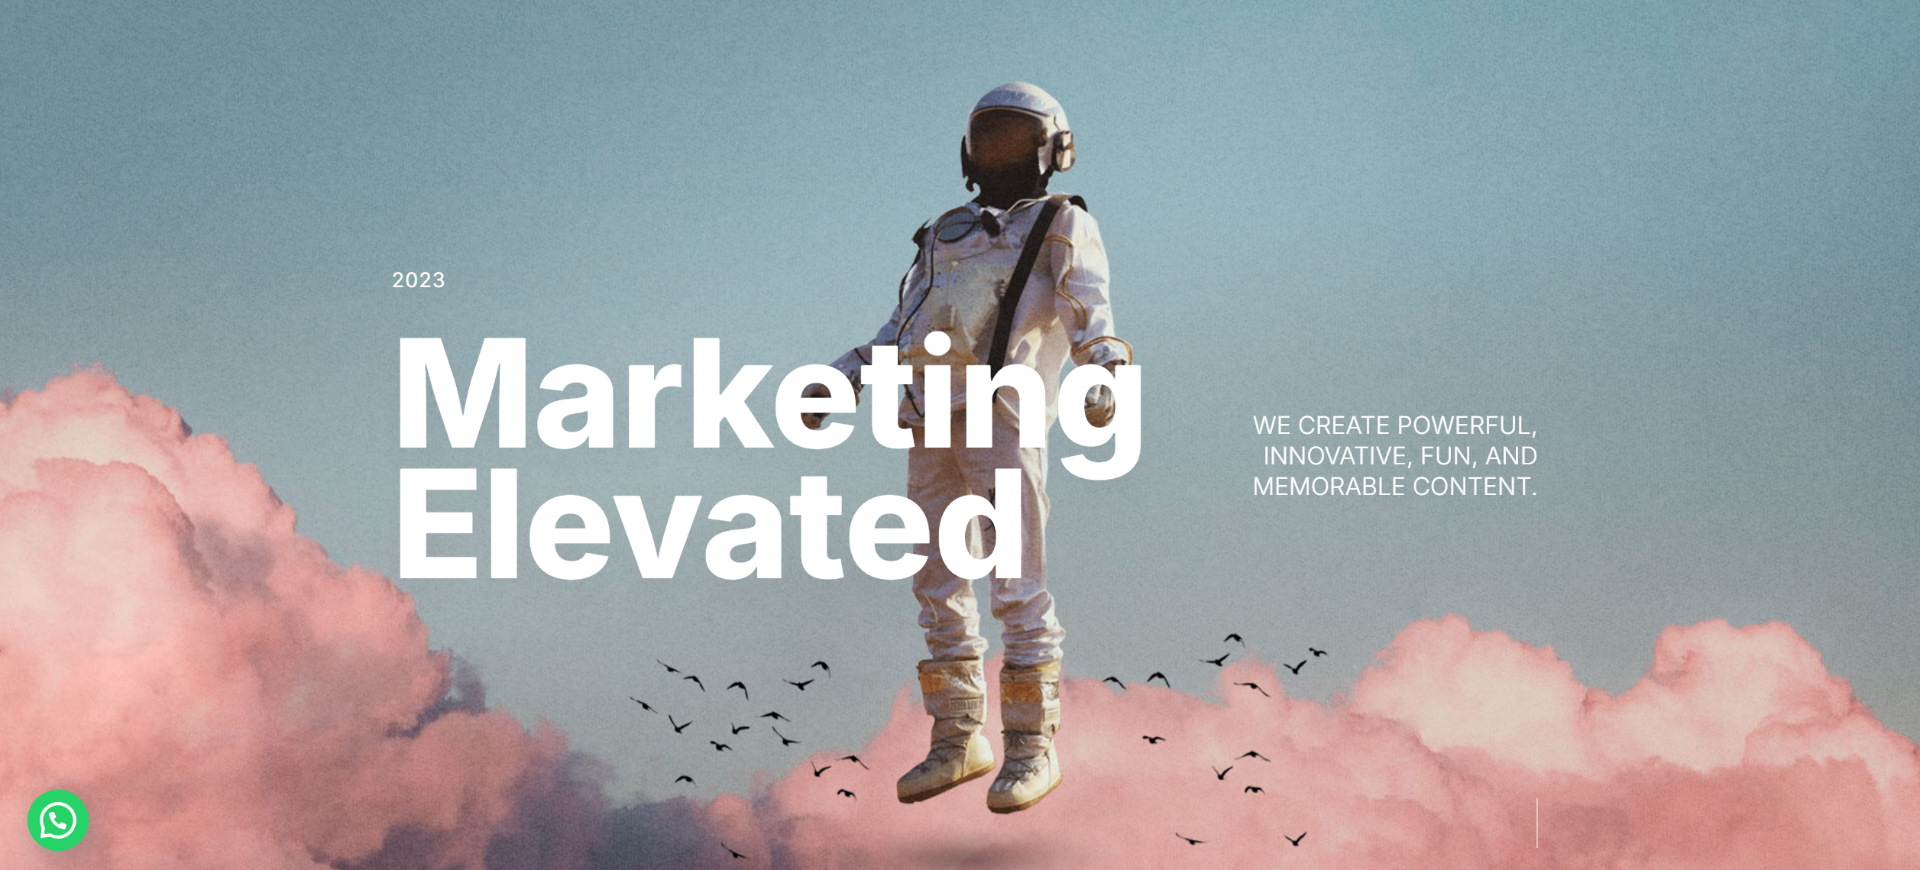
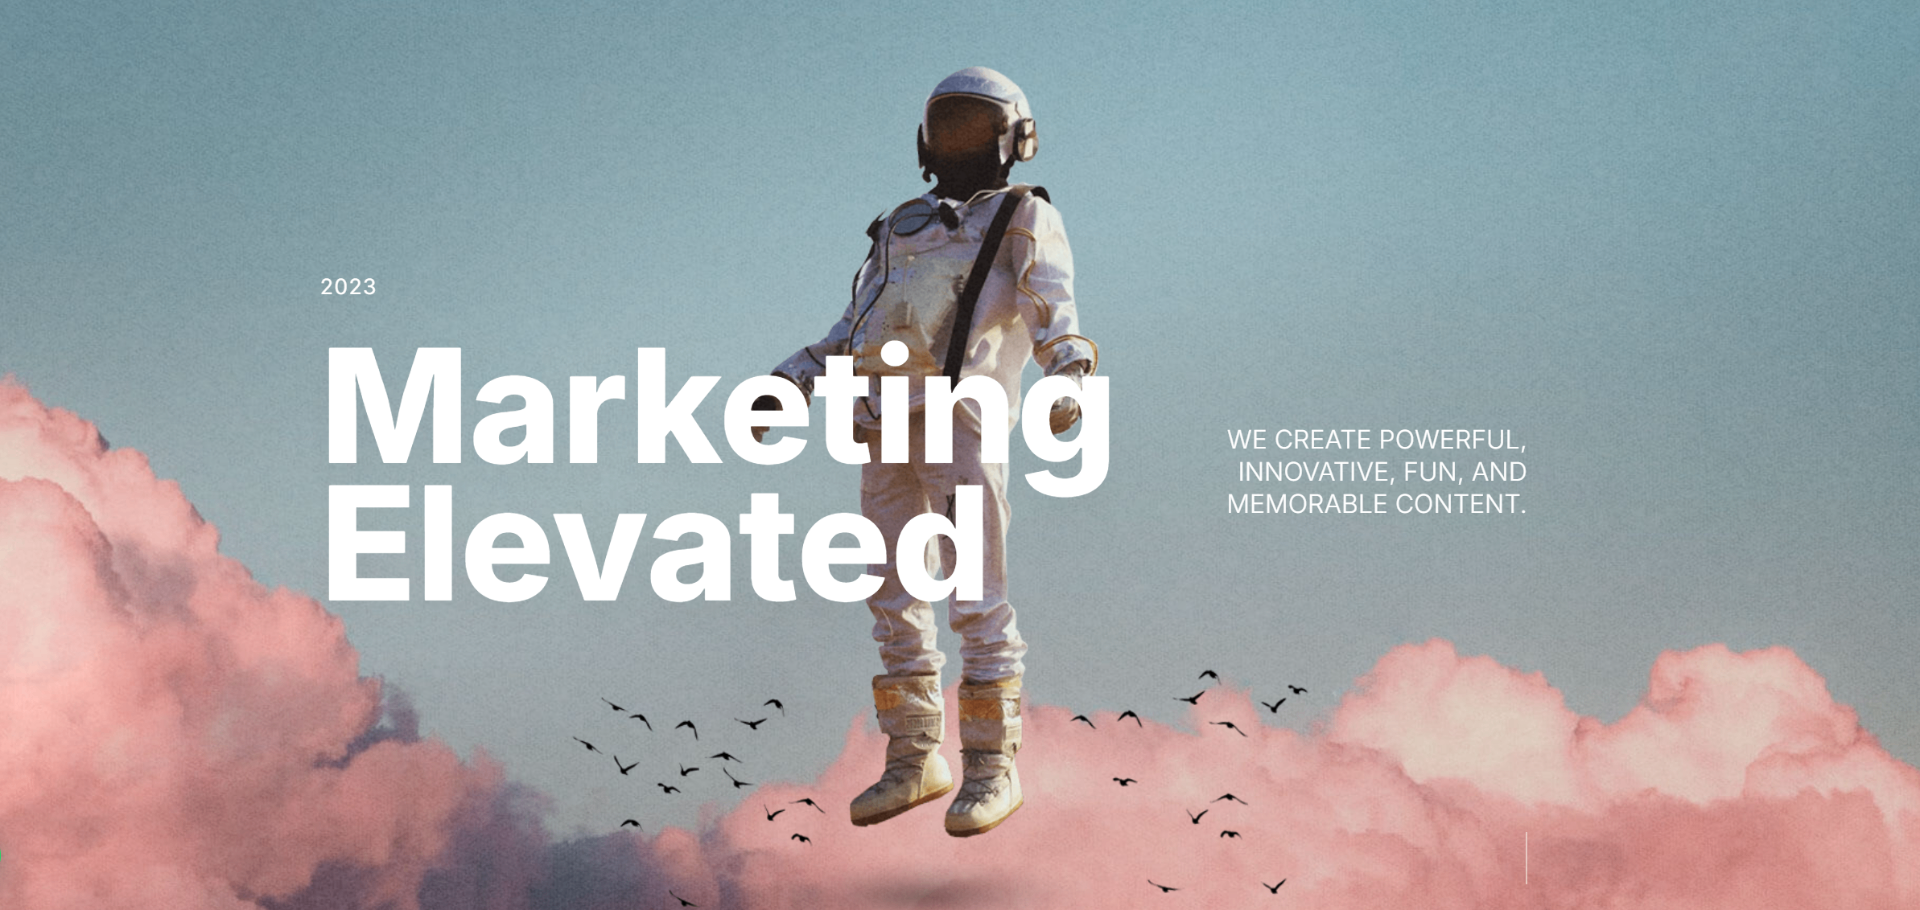
Changes

diff --git a/src/components/MissionSection.tsx b/src/components/MissionSection.tsx
@@ -205,7 +205,7 @@ const MissionSection = () => {
                 <img 
                   src={astronautImage} 
                   alt="Astronaut Marketing - Elevated Digital Solutions" 
-                  className="w-[320px] h-[320px] sm:w-[400px] sm:h-[400px] md:w-[480px] md:h-[480px] lg:w-[550px] lg:h-[550px] object-contain drop-shadow-2xl animate-astronaut-float"
+                  className="w-full h-auto max-w-[500px] lg:max-w-[600px] xl:max-w-[700px] min-h-[400px] sm:min-h-[500px] md:min-h-[600px] lg:min-h-[700px] object-cover drop-shadow-2xl animate-astronaut-float"
                   style={{
                     filter: 'drop-shadow(0 25px 50px rgba(139, 92, 246, 0.5))'
                   }}
